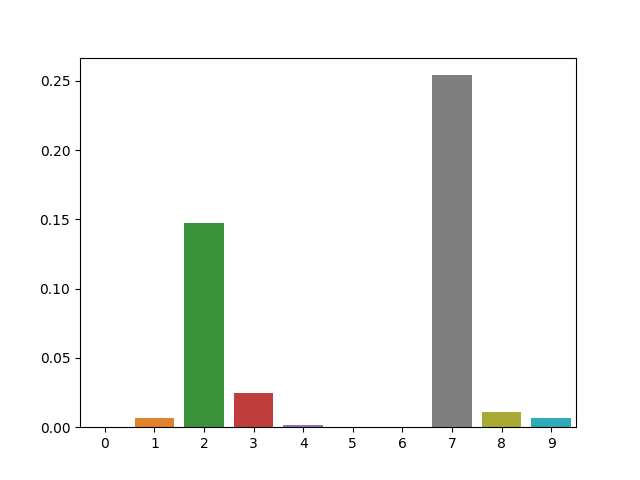
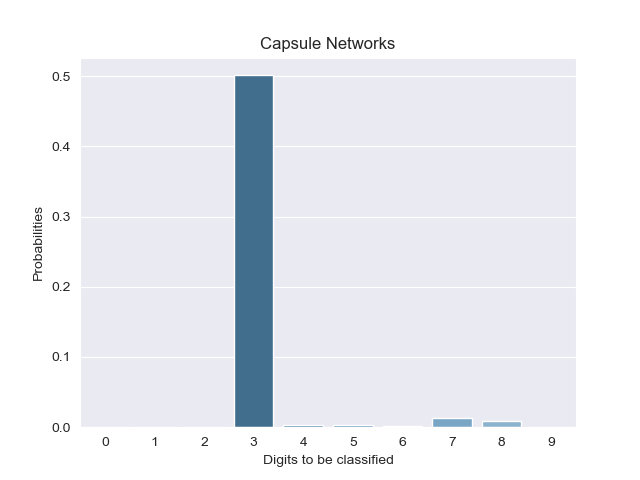
Front End

diff --git a/templates/index.html b/templates/index.html
@@ -4,7 +4,72 @@
 <head>
 	<meta charset="UTF-8">
 	<title>Handwritten Digit Recognition using Convolutional Neural Networks</title>
+	<link rel="stylesheet" href="https://stackpath.bootstrapcdn.com/bootstrap/4.1.3/css/bootstrap.min.css" integrity="sha384-MCw98/SFnGE8fJT3GXwEOngsV7Zt27NXFoaoApmYm81iuXoPkFOJwJ8ERdknLPMO"
+	 crossorigin="anonymous">
+	<script src="https://code.jquery.com/jquery-3.3.1.slim.min.js" integrity="sha384-q8i/X+965DzO0rT7abK41JStQIAqVgRVzpbzo5smXKp4YfRvH+8abtTE1Pi6jizo" crossorigin="anonymous"></script>
+	<script src="https://cdnjs.cloudflare.com/ajax/libs/popper.js/1.14.3/umd/popper.min.js" integrity="sha384-ZMP7rVo3mIykV+2+9J3UJ46jBk0WLaUAdn689aCwoqbBJiSnjAK/l8WvCWPIPm49" crossorigin="anonymous"></script>
+	<script src="https://stackpath.bootstrapcdn.com/bootstrap/4.1.3/js/bootstrap.min.js" integrity="sha384-ChfqqxuZUCnJSK3+MXmPNIyE6ZbWh2IMqE241rYiqJxyMiZ6OW/JmZQ5stwEULTy" crossorigin="anonymous"></script>
 
+	<style type="text/css">
+		.capsuleButton {
+		-moz-box-shadow: 0px 10px 14px -7px #3e7327;
+		-webkit-box-shadow: 0px 10px 14px -7px #3e7327;
+		box-shadow: 0px 10px 14px -7px #3e7327;
+		background:-webkit-gradient(linear, left top, left bottom, color-stop(0.05, #4DAF7C), color-stop(1, #72b352));
+		background:-moz-linear-gradient(top, #4DAF7C 5%, #72b352 100%);
+		background:-webkit-linear-gradient(top, #4DAF7C 5%, #72b352 100%);
+		background:-o-linear-gradient(top, #4DAF7C 5%, #72b352 100%);
+		background:-ms-linear-gradient(top, #4DAF7C 5%, #72b352 100%);
+		background:linear-gradient(to bottom, #4DAF7C 5%, #72b352 100%);
+		filter:progid:DXImageTransform.Microsoft.gradient(startColorstr='#4DAF7C', endColorstr='#72b352',GradientType=0);
+		background-color:#4DAF7C;
+		-moz-border-radius:4px;
+		-webkit-border-radius:4px;
+		border-radius:4px;
+		border:1px solid #4b8f29;
+		display:inline-block;
+		cursor:pointer;
+		color:#ffffff;
+		font-family:Arial;
+		font-size:15px;
+		padding:6px 13px;
+		text-decoration:none;
+		text-shadow:0px 1px 0px #5b8a3c;
+		}
+
+		.cnnButton {
+		-moz-box-shadow: 0px 10px 14px -7px #3e7327;
+		-webkit-box-shadow: 0px 10px 14px -7px #3e7327;
+		box-shadow: 0px 10px 14px -7px #3e7327;
+		background:-webkit-gradient(linear, left top, left bottom, color-stop(0.05, #4DAF7C), color-stop(1, #72b352));
+		background:-moz-linear-gradient(top, #4DAF7C 5%, #72b352 100%);
+		background:-webkit-linear-gradient(top, #4DAF7C 5%, #72b352 100%);
+		background:-o-linear-gradient(top, #4DAF7C 5%, #72b352 100%);
+		background:-ms-linear-gradient(top, #4DAF7C 5%, #72b352 100%);
+		background:linear-gradient(to bottom, #4DAF7C 5%, #72b352 100%);
+		filter:progid:DXImageTransform.Microsoft.gradient(startColorstr='#4DAF7C', endColorstr='#72b352',GradientType=0);
+		background-color:#4DAF7C;
+		-moz-border-radius:4px;
+		-webkit-border-radius:4px;
+		border-radius:4px;
+		border:1px solid #4b8f29;
+		display:inline-block;
+		cursor:pointer;
+		color:#ffffff;
+		font-family:Arial;
+		font-size:15px;
+		padding:6px 13px;
+		text-decoration:none;
+		text-shadow:0px 1px 0px #5b8a3c;
+		}
+
+		body{
+			background-color: #333;
+			color: #fff;
+			text-shadow: 0 .05rem .1rem rgba(0, 0, 0, .5);
+			box-shadow: inset 0 0 5rem rgba(0, 0, 0, .5);
+		}
+	</style>
 
 
 	<!-- <link rel="stylesheet" href="{{ url_for('static',filename='style.css') }}"> -->
@@ -12,8 +77,10 @@
 </head>
 
 <body>
-
-	<h1>Handwritten Digit Recognition</h1>
+	<nav class="navbar navbar-expand-sm bg-dark navbar-dark">
+		<h1 class="navbar-brand"><em>Handwritten Digit Recognition using Capsule and CNN</em></h1>
+	</nav>
+	
 
 	<canvas id="canvas" width="280" height="280" style="border:8px solid; float: left; margin: 70px; margin-top:160px;  border-radius: 5px; cursor: crosshair;"></canvas>
 	<div id="debug" style="margin:65px; margin-top:100px;">
@@ -21,24 +88,27 @@
 
 		<!-- <input type="color" id="colors">
 			 <input type="number" id="lineWidth" style="width:60px" value="0.2" step="0.1" min="0.1">  -->
-		<input type="button" id="clearButton" value="Clear">
+		<input type="button" id="clearButton" value="Clear" class="btn primary-btn" style="margin-left:-350px;">
 		<br />
-		<span style="color: #4DAF7C; font-weight: 400; font-family: 'Open Sans', Helvetica;	">Draw the Digit inside this Box!</span>
+		<span style="color: #4DAF7C; font-weight: 400; font-family: 'Open Sans', Helvetica; margin-left:-350px">Draw the Digit inside this Box!</span>
 	</div>
 
-	<div style="margin-left:175px; margin-top:460px; float:left; position:absolute;">
+	<div style="margin-left:90px; margin-top:300px; float:left; position:absolute;">
 
-		<a href="#" class="capsuleButton"><span style=" font-weight: 400; font-family: 'Open Sans', Helvetica;	"> Predict
+		<a href="#" class="capsuleButton"><span style="font-weight:400;font-family:'Open Sans',Helvetica;"> Predict
 				Capsule</span></a>
-		<a href="#" class="cnnButton"><span style=" font-weight: 400; font-family: 'Open Sans', Helvetica;	"> Predict CNN</span></a>
+		<a href="#" class="cnnButton"><span style="font-weight:400;font-family:'Open Sans',Helvetica;"> Predict CNN</span></a>
 
 	</div>
 	<div>
 		<h1 id="result" style="margin-right:20px; margin-top:300px;float:left;"><span> </span></h1>
 	</div>
-	<img src="" alt="" id="capsule_img">
-	<img src="" alt="" id="cnn_img">
+	<div class="container" style="margin-top: -150px;">
+		<img src="" alt="" id="capsule_img" width="550" height="450" >
+		<img src="" alt="" id="cnn_img" width="550" height="450" >
 
+	</div>
+	
 
 	<script src='http://cdnjs.cloudflare.com/ajax/libs/jquery/2.1.3/jquery.min.js'></script>
 

diff --git a/app.py b/app.py
@@ -61,8 +61,11 @@ def predict():
     
     values = [0, 1, 2, 3, 4, 5, 6, 7, 8, 9]
     plt.clf()
-    
-    sns.barplot(x=values, y=list(caps))
+    sns.set_style('darkgrid')
+    sns.barplot(x=values, y=list(caps), palette='Blues_d')
+    plt.xlabel('Digits to be classified')
+    plt.ylabel('Probabilities')
+    plt.title('Capsule Networks')
     plt.savefig('./static/capsules.png')
     response =''
     with open('./static/capsules.png','rb') as file:
@@ -80,8 +83,14 @@ def cnn_predict():
     cnn = cnn_output.flat
     values = [0, 1, 2, 3, 4, 5, 6, 7, 8, 9]
     plt.clf()
-    
-    sns.barplot(x=values, y=list(cnn))
+    sns.set_style('darkgrid')
+    sns.barplot(x=values, y=list(cnn), palette='Greens_d')
+    plt.xlabel('Digits to be classified')
+    plt.ylabel('Probabilities')
+    plt.title('Convolutional Neural Networks')
+    # cnn_graph.title("The probability of the lowest element represents the output")
+    # cnn_graph.set_xlabel('Digits to be classified')
+    # cnn_graph.set_ylabel('Probability')
     plt.savefig('./static/cnn.png')
     response =''
     with open('./static/cnn.png','rb') as file:
